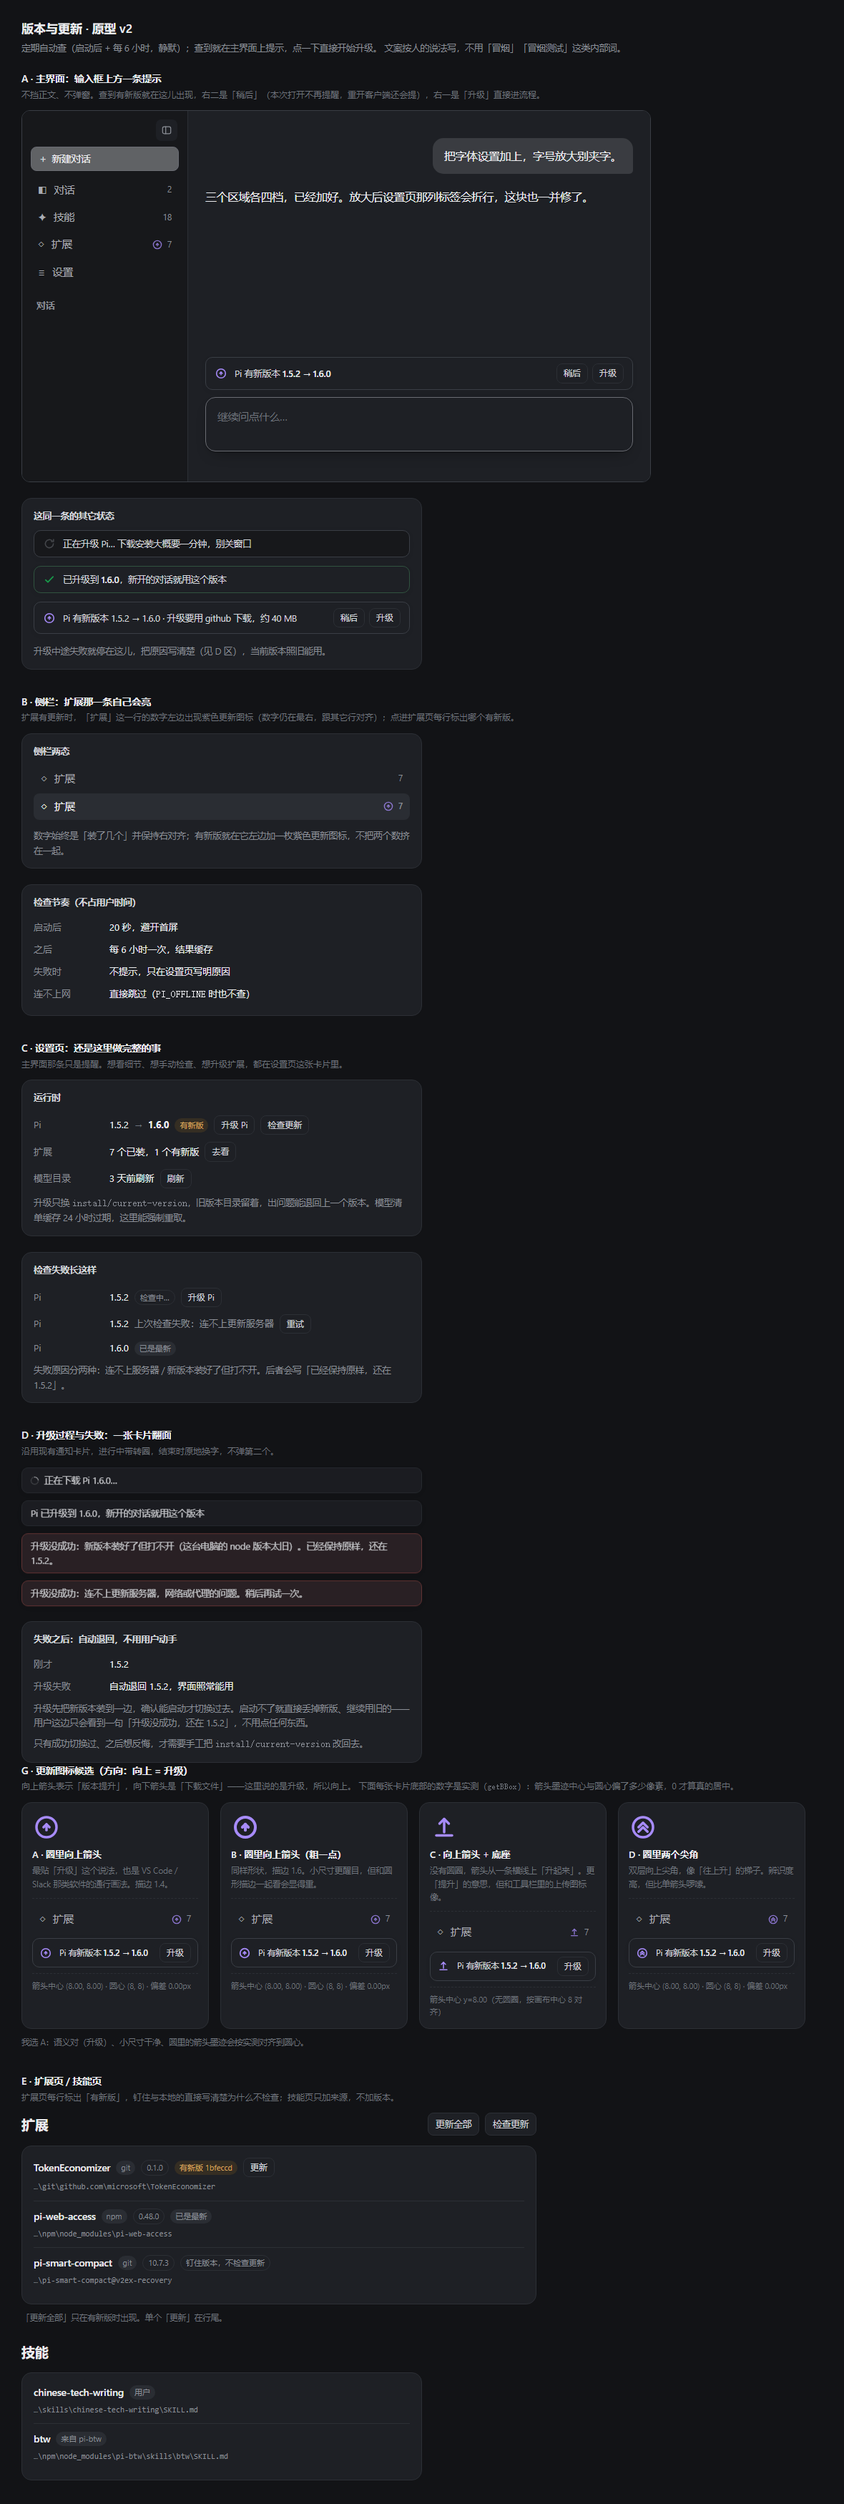
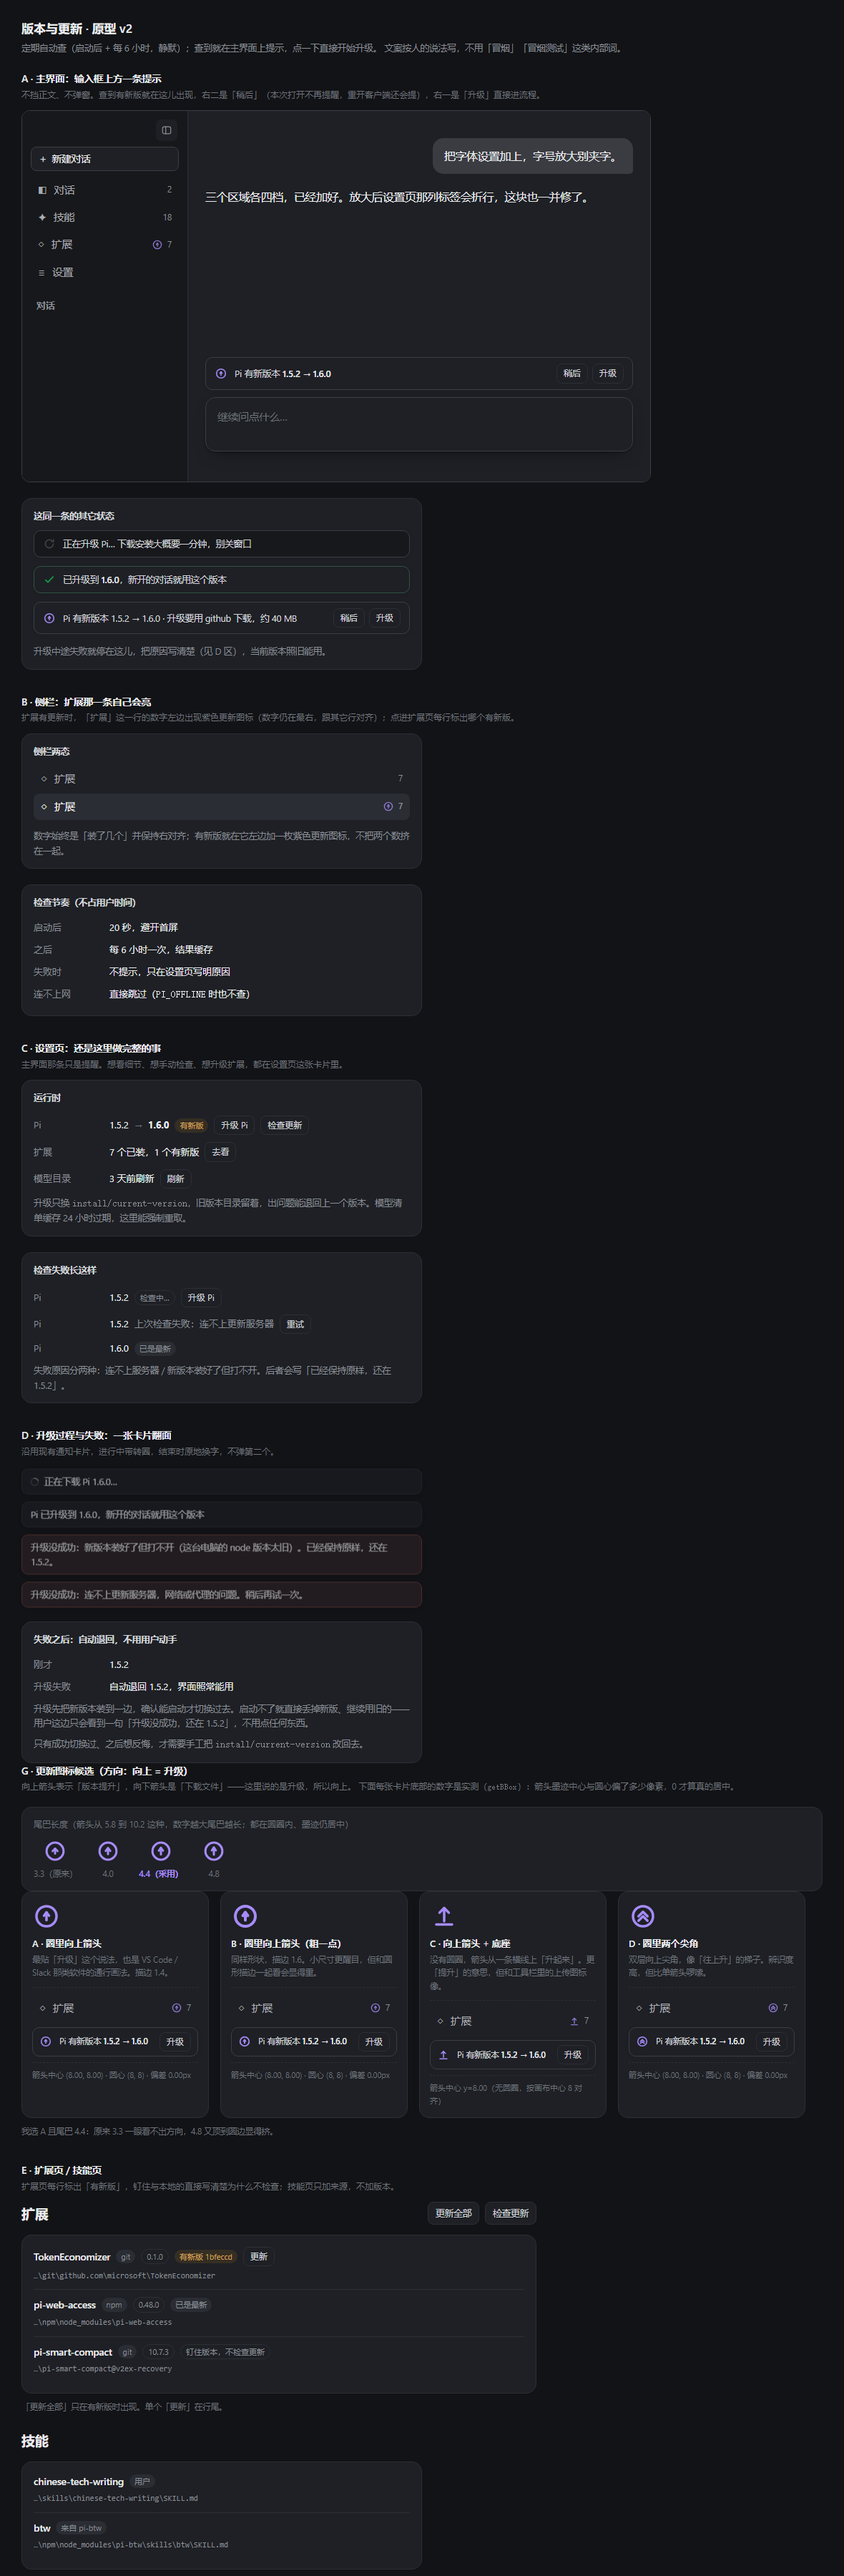
设计：更新图标尾巴加长到 4.4（原 3.3 看不出方向）

diff --git a/design/updates-proto.html b/design/updates-proto.html
@@ -74,6 +74,16 @@
   .icon-demo { padding-top: 10px; border-top: 1px dashed var(--border); }
   .icon-demo .upd-strip { font-size: calc(11.5px * var(--fs-ui)); padding: 6px 9px; }
 
+  .len-row { margin-top: 18px; padding: 14px 16px; background: var(--card); border: 1px solid var(--border); border-radius: var(--radius-card); }
+  .len-title { font-size: calc(12px * var(--fs-ui)); color: var(--text-faint); margin-bottom: 10px; }
+  .len-cells { display: flex; gap: 26px; }
+  .len-cell { display: flex; flex-direction: column; align-items: center; gap: 6px; }
+  .len-icon { width: 34px; height: 34px; color: var(--upd); }
+  .len-icon svg { width: 100%; height: 100%; }
+  .len-name { font-size: calc(11.5px * var(--fs-ui)); color: var(--text-faint); }
+  .len-cell.is-on .len-name { color: var(--upd); font-weight: 600; }
+  .len-cell.is-on .len-icon { filter: drop-shadow(0 0 0 transparent); }
+
   .icon-geo { margin-top: 8px; padding-top: 8px; border-top: 1px dashed var(--border); font-size: calc(11px * var(--fs-ui)); color: var(--text-faint); font-variant-numeric: tabular-nums; }
 
   .copy-table { border-collapse: collapse; font-size: calc(12.5px * var(--fs-ui)); }
@@ -103,7 +113,7 @@
           <nav class="nav">
             <button class="nav-item"><span class="nav-icon">◧</span>对话<span class="nav-count">2</span></button>
             <button class="nav-item"><span class="nav-icon">✦</span>技能<span class="nav-count">18</span></button>
-            <button class="nav-item"><span class="nav-icon">◇</span>扩展<span class="nav-tail"><span class="nav-update"><svg viewBox="0 0 16 16" fill="none" stroke="currentColor" stroke-width="1.4" stroke-linecap="round" stroke-linejoin="round"><circle cx="8" cy="8" r="5.6"/><path d="M8 9.65V6.35"/><path d="M6.35 8 8 6.35 9.65 8"/></svg></span><span class="nav-count">7</span></span></button>
+            <button class="nav-item"><span class="nav-icon">◇</span>扩展<span class="nav-tail"><span class="nav-update"><svg viewBox="0 0 16 16" fill="none" stroke="currentColor" stroke-width="1.4" stroke-linecap="round" stroke-linejoin="round"><circle cx="8" cy="8" r="5.6"/><path d="M8 10.2V5.8"/><path d="M6.6 7.7 8 5.8 9.4 7.7"/></svg></span><span class="nav-count">7</span></span></button>
             <button class="nav-item"><span class="nav-icon">≡</span>设置</button>
           </nav>
           <div class="threads-head"><span class="threads-title">对话</span></div>
@@ -120,7 +130,7 @@
 
             <div class="composer">
               <div class="upd-strip">
-                <span class="upd-icon"><svg viewBox="0 0 16 16" fill="none" stroke="currentColor" stroke-width="1.4" stroke-linecap="round" stroke-linejoin="round"><circle cx="8" cy="8" r="5.6"/><path d="M8 9.65V6.35"/><path d="M6.35 8 8 6.35 9.65 8"/></svg></span>
+                <span class="upd-icon"><svg viewBox="0 0 16 16" fill="none" stroke="currentColor" stroke-width="1.4" stroke-linecap="round" stroke-linejoin="round"><circle cx="8" cy="8" r="5.6"/><path d="M8 10.2V5.8"/><path d="M6.6 7.7 8 5.8 9.4 7.7"/></svg></span>
                 <span class="upd-text">Pi 有新版本 <strong>1.5.2 → 1.6.0</strong></span>
                 <span class="upd-actions">
                   <button class="ghost-btn small">稍后</button>
@@ -153,7 +163,7 @@
         </div>
 
         <div class="upd-strip" style="margin-bottom:12px">
-          <span class="upd-icon"><svg viewBox="0 0 16 16" fill="none" stroke="currentColor" stroke-width="1.4" stroke-linecap="round" stroke-linejoin="round"><circle cx="8" cy="8" r="5.6"/><path d="M8 9.65V6.35"/><path d="M6.35 8 8 6.35 9.65 8"/></svg></span>
+          <span class="upd-icon"><svg viewBox="0 0 16 16" fill="none" stroke="currentColor" stroke-width="1.4" stroke-linecap="round" stroke-linejoin="round"><circle cx="8" cy="8" r="5.6"/><path d="M8 10.2V5.8"/><path d="M6.6 7.7 8 5.8 9.4 7.7"/></svg></span>
           <span class="upd-text">Pi 有新版本 1.5.2 → 1.6.0 · 升级要用 github 下载，约 40 MB</span>
           <span class="upd-actions"><button class="ghost-btn small">稍后</button><button class="ghost-btn small">升级</button></span>
         </div>
@@ -173,7 +183,7 @@
         <h3>侧栏两态</h3>
         <nav class="nav" style="display:flex;flex-direction:column;gap:2px">
           <button class="nav-item"><span class="nav-icon">◇</span>扩展<span class="nav-count">7</span></button>
-          <button class="nav-item is-active"><span class="nav-icon">◇</span>扩展<span class="nav-tail"><span class="nav-update"><svg viewBox="0 0 16 16" fill="none" stroke="currentColor" stroke-width="1.4" stroke-linecap="round" stroke-linejoin="round"><circle cx="8" cy="8" r="5.6"/><path d="M8 9.65V6.35"/><path d="M6.35 8 8 6.35 9.65 8"/></svg></span><span class="nav-count">7</span></span></button>
+          <button class="nav-item is-active"><span class="nav-icon">◇</span>扩展<span class="nav-tail"><span class="nav-update"><svg viewBox="0 0 16 16" fill="none" stroke="currentColor" stroke-width="1.4" stroke-linecap="round" stroke-linejoin="round"><circle cx="8" cy="8" r="5.6"/><path d="M8 10.2V5.8"/><path d="M6.6 7.7 8 5.8 9.4 7.7"/></svg></span><span class="nav-count">7</span></span></button>
         </nav>
         <p class="page-note" style="margin-top:12px">数字始终是「装了几个」并保持右对齐；有新版就在它左边加一枚紫色更新图标，不把两个数挤在一起。</p>
       </div>
@@ -276,15 +286,36 @@
   <h2>G · 更新图标候选（方向：向上 = 升级）</h2>
   <p class="why">向上箭头表示「版本提升」，向下箭头是「下载文件」——这里说的是升级，所以向上。
   下面每张卡片底部的数字是实测（<code>getBBox</code>）：箭头墨迹中心与圆心偏了多少像素，0 才算真的居中。</p>
+  <div class="len-row">
+    <div class="len-title">尾巴长度（箭头从 5.8 到 10.2 这种，数字越大尾巴越长；都在圆圈内、墨迹仍居中）</div>
+    <div class="len-cells">
+      <div class="len-cell">
+        <div class="len-icon"><svg viewBox="0 0 16 16" fill="none" stroke="currentColor" stroke-width="1.4" stroke-linecap="round" stroke-linejoin="round"><circle cx="8" cy="8" r="5.6"/><path d="M8 9.65V6.35"/><path d="M6.35 8 8 6.35 9.65 8"/></svg></div>
+        <div class="len-name">3.3（原来）</div>
+      </div>
+      <div class="len-cell">
+        <div class="len-icon"><svg viewBox="0 0 16 16" fill="none" stroke="currentColor" stroke-width="1.4" stroke-linecap="round" stroke-linejoin="round"><circle cx="8" cy="8" r="5.6"/><path d="M8 10V6"/><path d="M6.5 7.9 8 6l1.5 1.9"/></svg></div>
+        <div class="len-name">4.0</div>
+      </div>
+      <div class="len-cell is-on">
+        <div class="len-icon"><svg viewBox="0 0 16 16" fill="none" stroke="currentColor" stroke-width="1.4" stroke-linecap="round" stroke-linejoin="round"><circle cx="8" cy="8" r="5.6"/><path d="M8 10.2V5.8"/><path d="M6.6 7.7 8 5.8 9.4 7.7"/></svg></div>
+        <div class="len-name">4.4（采用）</div>
+      </div>
+      <div class="len-cell">
+        <div class="len-icon"><svg viewBox="0 0 16 16" fill="none" stroke="currentColor" stroke-width="1.4" stroke-linecap="round" stroke-linejoin="round"><circle cx="8" cy="8" r="5.6"/><path d="M8 10.4V5.6"/><path d="M6.7 7.5 8 5.6l1.3 1.9"/></svg></div>
+        <div class="len-name">4.8</div>
+      </div>
+    </div>
+  </div>
   <div class="icon-grid">
       <div class="icon-card" data-icon="A">
-        <div class="icon-big" style="color:var(--upd)"><svg viewBox="0 0 16 16" fill="none" stroke="currentColor" stroke-width="1.4" stroke-linecap="round" stroke-linejoin="round"><circle cx="8" cy="8" r="5.6"/><path d="M8 9.65V6.35"/><path d="M6.35 8 8 6.35 9.65 8"/></svg></div>
+        <div class="icon-big" style="color:var(--upd)"><svg viewBox="0 0 16 16" fill="none" stroke="currentColor" stroke-width="1.4" stroke-linecap="round" stroke-linejoin="round"><circle cx="8" cy="8" r="5.6"/><path d="M8 10.2V5.8"/><path d="M6.6 7.7 8 5.8 9.4 7.7"/></svg></div>
         <div class="icon-name">A · 圈里向上箭头</div>
         <div class="icon-note">最贴「升级」这个说法，也是 VS Code / Slack 那类软件的通行画法。描边 1.4。</div>
         <div class="icon-demo">
-          <div class="nav-item" style="width:100%;pointer-events:none"><span class="nav-icon">◇</span>扩展<span class="nav-tail"><span class="nav-update"><svg viewBox="0 0 16 16" fill="none" stroke="currentColor" stroke-width="1.4" stroke-linecap="round" stroke-linejoin="round"><circle cx="8" cy="8" r="5.6"/><path d="M8 9.65V6.35"/><path d="M6.35 8 8 6.35 9.65 8"/></svg></span><span class="nav-count">7</span></span></div>
+          <div class="nav-item" style="width:100%;pointer-events:none"><span class="nav-icon">◇</span>扩展<span class="nav-tail"><span class="nav-update"><svg viewBox="0 0 16 16" fill="none" stroke="currentColor" stroke-width="1.4" stroke-linecap="round" stroke-linejoin="round"><circle cx="8" cy="8" r="5.6"/><path d="M8 10.2V5.8"/><path d="M6.6 7.7 8 5.8 9.4 7.7"/></svg></span><span class="nav-count">7</span></span></div>
           <div class="upd-strip" style="margin:8px 0 0">
-            <span class="upd-icon"><svg viewBox="0 0 16 16" fill="none" stroke="currentColor" stroke-width="1.4" stroke-linecap="round" stroke-linejoin="round"><circle cx="8" cy="8" r="5.6"/><path d="M8 9.65V6.35"/><path d="M6.35 8 8 6.35 9.65 8"/></svg></span>
+            <span class="upd-icon"><svg viewBox="0 0 16 16" fill="none" stroke="currentColor" stroke-width="1.4" stroke-linecap="round" stroke-linejoin="round"><circle cx="8" cy="8" r="5.6"/><path d="M8 10.2V5.8"/><path d="M6.6 7.7 8 5.8 9.4 7.7"/></svg></span>
             <span class="upd-text">Pi 有新版本 <strong>1.5.2 → 1.6.0</strong></span>
             <span class="upd-actions"><button class="ghost-btn small">升级</button></span>
           </div>
@@ -292,13 +323,13 @@
         <div class="icon-geo"></div>
       </div>
       <div class="icon-card" data-icon="B">
-        <div class="icon-big" style="color:var(--upd)"><svg viewBox="0 0 16 16" fill="none" stroke="currentColor" stroke-width="1.6" stroke-linecap="round" stroke-linejoin="round"><circle cx="8" cy="8" r="5.6"/><path d="M8 9.65V6.35"/><path d="M6.35 8 8 6.35 9.65 8"/></svg></div>
+        <div class="icon-big" style="color:var(--upd)"><svg viewBox="0 0 16 16" fill="none" stroke="currentColor" stroke-width="1.6" stroke-linecap="round" stroke-linejoin="round"><circle cx="8" cy="8" r="5.6"/><path d="M8 10.2V5.8"/><path d="M6.6 7.7 8 5.8 9.4 7.7"/></svg></div>
         <div class="icon-name">B · 圈里向上箭头（粗一点）</div>
         <div class="icon-note">同样形状，描边 1.6。小尺寸更醒目，但和圆形描边一起看会显得重。</div>
         <div class="icon-demo">
-          <div class="nav-item" style="width:100%;pointer-events:none"><span class="nav-icon">◇</span>扩展<span class="nav-tail"><span class="nav-update"><svg viewBox="0 0 16 16" fill="none" stroke="currentColor" stroke-width="1.6" stroke-linecap="round" stroke-linejoin="round"><circle cx="8" cy="8" r="5.6"/><path d="M8 9.65V6.35"/><path d="M6.35 8 8 6.35 9.65 8"/></svg></span><span class="nav-count">7</span></span></div>
+          <div class="nav-item" style="width:100%;pointer-events:none"><span class="nav-icon">◇</span>扩展<span class="nav-tail"><span class="nav-update"><svg viewBox="0 0 16 16" fill="none" stroke="currentColor" stroke-width="1.6" stroke-linecap="round" stroke-linejoin="round"><circle cx="8" cy="8" r="5.6"/><path d="M8 10.2V5.8"/><path d="M6.6 7.7 8 5.8 9.4 7.7"/></svg></span><span class="nav-count">7</span></span></div>
           <div class="upd-strip" style="margin:8px 0 0">
-            <span class="upd-icon"><svg viewBox="0 0 16 16" fill="none" stroke="currentColor" stroke-width="1.6" stroke-linecap="round" stroke-linejoin="round"><circle cx="8" cy="8" r="5.6"/><path d="M8 9.65V6.35"/><path d="M6.35 8 8 6.35 9.65 8"/></svg></span>
+            <span class="upd-icon"><svg viewBox="0 0 16 16" fill="none" stroke="currentColor" stroke-width="1.6" stroke-linecap="round" stroke-linejoin="round"><circle cx="8" cy="8" r="5.6"/><path d="M8 10.2V5.8"/><path d="M6.6 7.7 8 5.8 9.4 7.7"/></svg></span>
             <span class="upd-text">Pi 有新版本 <strong>1.5.2 → 1.6.0</strong></span>
             <span class="upd-actions"><button class="ghost-btn small">升级</button></span>
           </div>
@@ -334,7 +365,7 @@
         <div class="icon-geo"></div>
       </div>
   </div>
-  <p class="mini-note">我选 A：语义对（升级）、小尺寸干净、圆里的箭头墨迹会按实测对齐到圆心。</p>
+  <p class="mini-note">我选 A 且尾巴 4.4：原来 3.3 一眼看不出方向，4.8 又顶到圆边显得挤。</p>
 </div>
 
 <div class="block">

diff --git a/docs/STATUS.md b/docs/STATUS.md
@@ -22,6 +22,14 @@
 - 已知限制（写进发布说明）：Seven Station Core 目前只放 Windows 包，之后会出 Linux 版；局域网限本地子网、没做 TLS；
   手机窄屏未调；数据库没有版本化迁移，只有「查列再补」这一处临时逻辑。
 
+## STATUS-080：更新图标尾巴加长（原型 v6，2026-11-22）
+
+用户说「箭头尾巴有点短，第一眼看不出是往上的」。第一版 shaft 只有 6.35–9.65（长 3.3），
+16~18px 下头几乎贴着尾根。现在改成 **5.8–10.2（长 4.4）**、头宽 2.8，墨迹中心仍精确落在圆心（0.00px）。
+
+原型里留了三档对比（3.3 / 4.0 / **4.4** / 4.8）：4.8 顶到圆边显挤，4.0 略保守。
+截图 `design/shots/updates-proto-v2-icons.png`，说明在 `docs/research/updates-2026-11.md` 6.6。
+
 ## STATUS-079：更新图标加大 + 换升级专用紫 + 侧栏图标挪到数字左边（原型 v5，2026-11-22）
 
 三条改动：

diff --git a/docs/research/updates-2026-11.md b/docs/research/updates-2026-11.md
@@ -310,6 +310,10 @@ Pi          1.5.2 → 1.6.0  [有新版]  [升级 Pi] [检查更新]
 
 **尺寸**：提示条里 18px、侧栏行里 16px（原来 15/14 偏小）。原型候选区放大到 40px 只是为了看形状。
 
+**尾巴长度**：第一版箭头（shaft 6.35–9.65，长 3.3）在 16~18px 下看不出方向，头几乎贴着尾巴根。
+现在改成 **5.8–10.2（长 4.4）**、头宽 2.8 —— 尾巴明显露出来，一眼是「往上」。
+原型里还留了三档对比（3.3 / 4.0 / **4.4** / 4.8）：4.8 会顶到圆边显得挤，4.0 略保守，4.4 正好。
+
 **居中是量出来的，不是目测的。** 每个候选的 `path` 用 `getBBox()` 求墨迹外框中心，与圆心 (8, 8) 比：
 
 ```text
